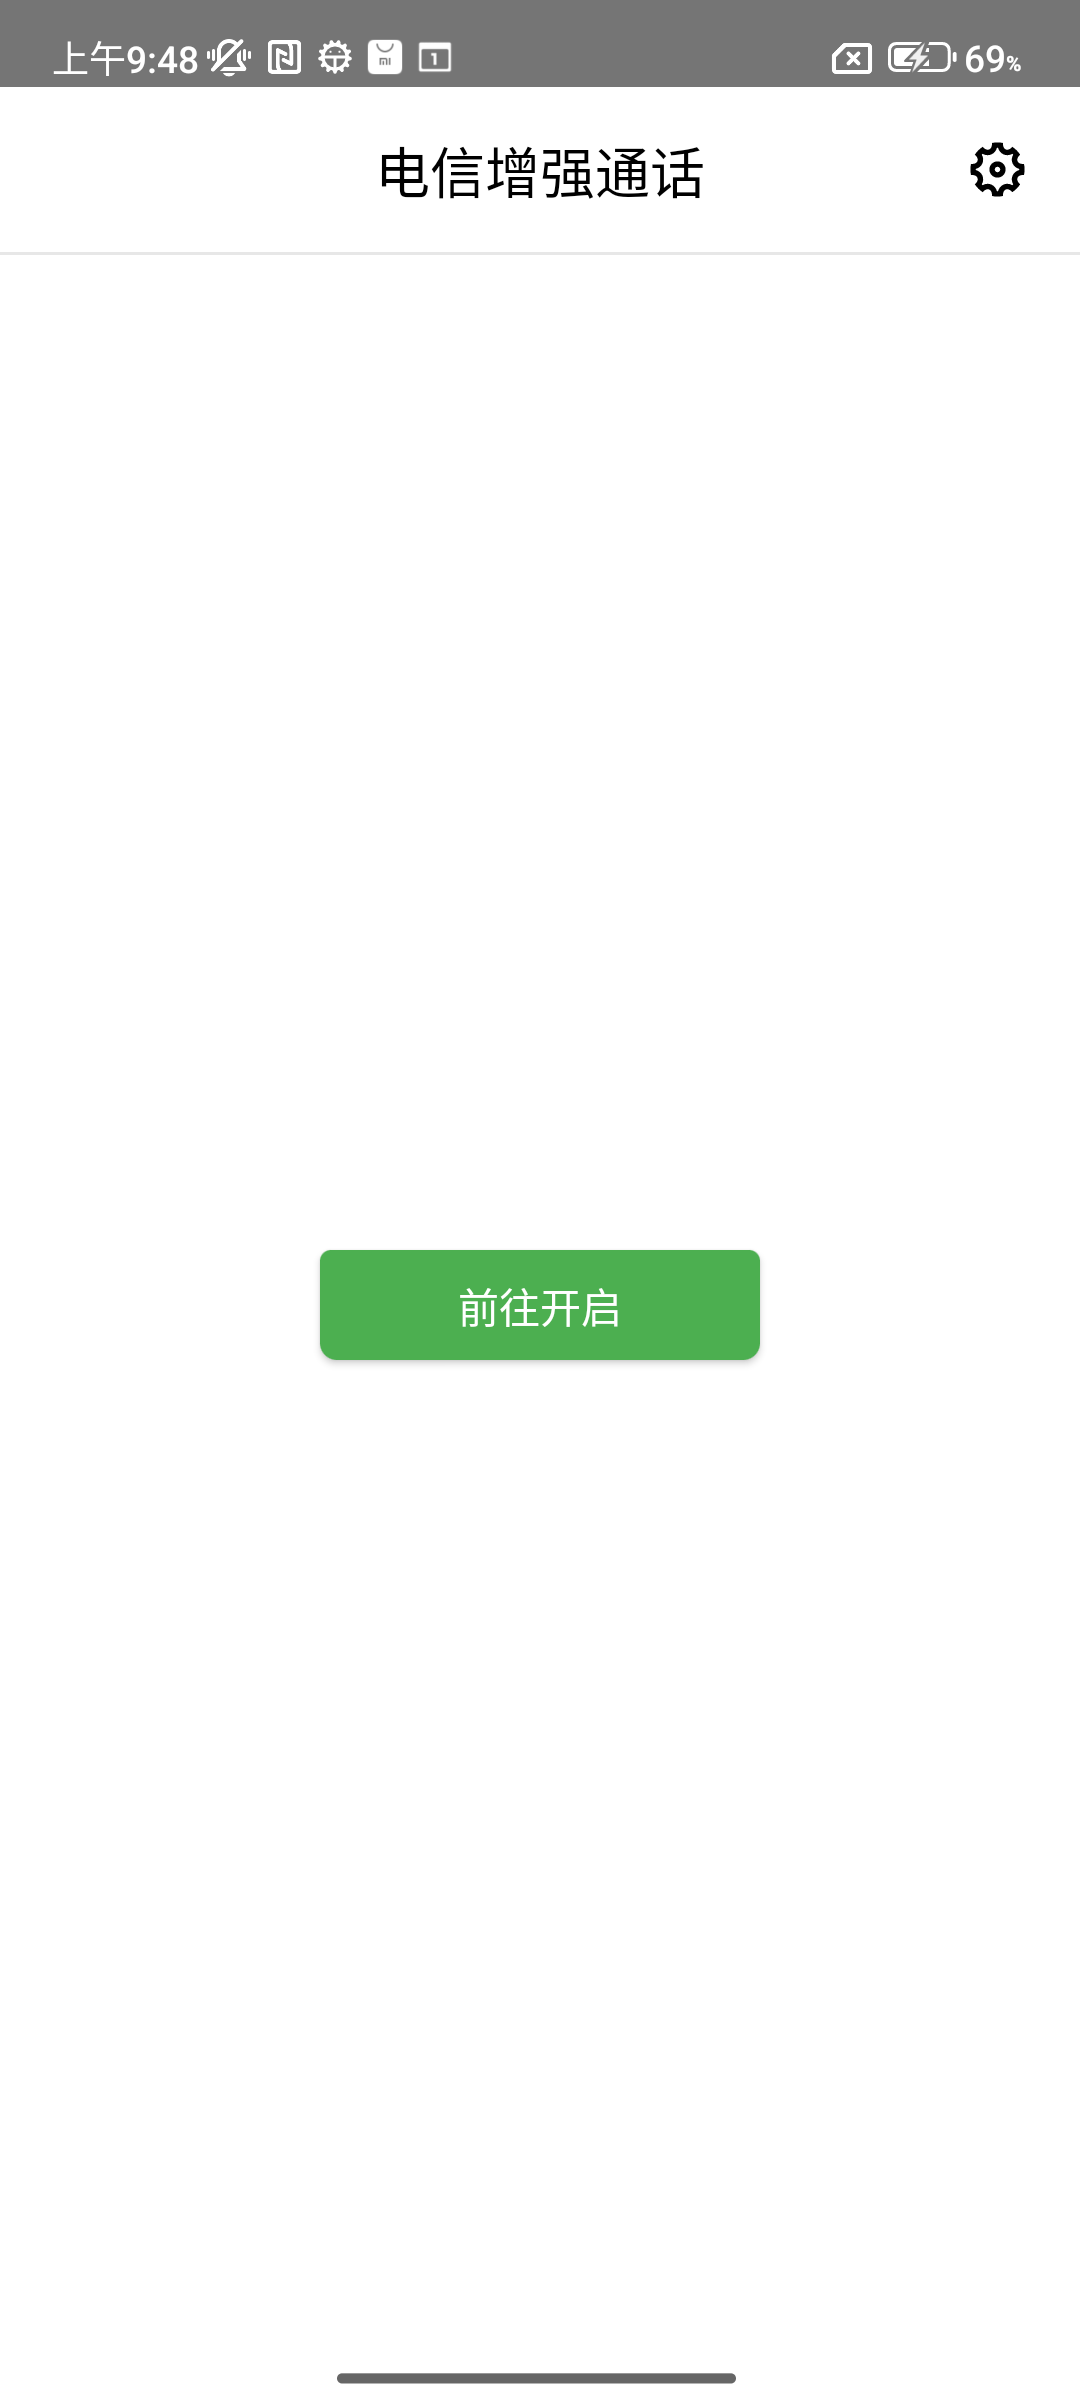
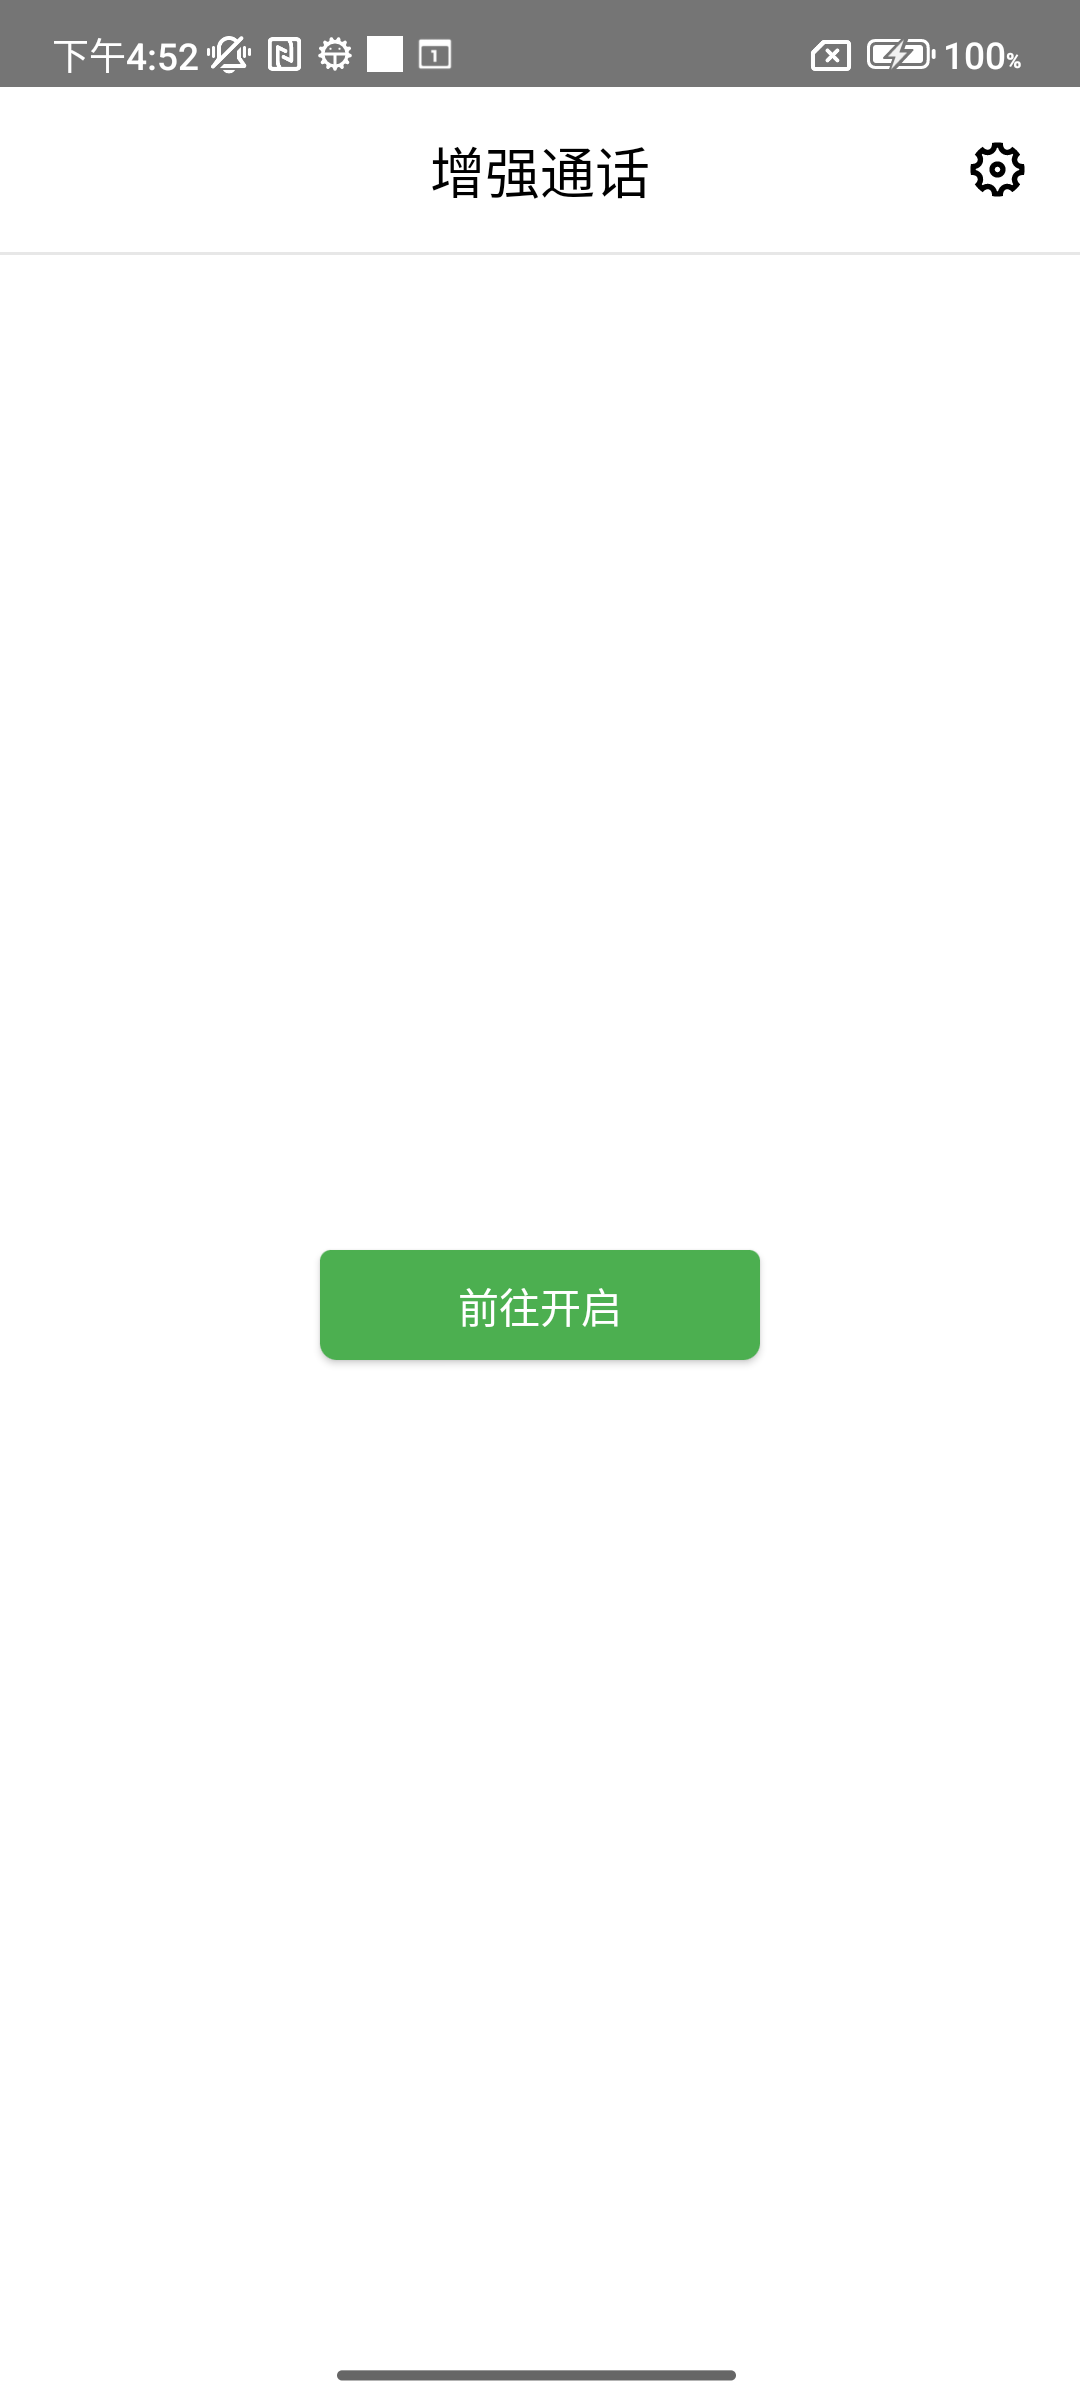
name

diff --git a/core/src/main/java/com/ct/ertclib/dc/core/common/sdkpermission/SDKPermissionActivity.kt b/core/src/main/java/com/ct/ertclib/dc/core/common/sdkpermission/SDKPermissionActivity.kt
@@ -36,7 +36,7 @@ import com.hjq.permissions.OnPermissionCallback
 import com.hjq.permissions.XXPermissions
 
 /**
- * 问题：被叫首次使用新通话，手机顶部悬浮窗显示电话，同时弹出权限授权弹窗。用户点击接听后，授权弹窗会被覆盖。
+ * 问题：被叫首次使用增强通话，手机顶部悬浮窗显示电话，同时弹出权限授权弹窗。用户点击接听后，授权弹窗会被覆盖。
  * 解决方案：用户没有点击同意或拒绝按钮，Activity退至后台时，那就再调用一次startActivity
  *
  */
@@ -162,7 +162,7 @@ class SDKPermissionActivity : BaseAppCompatActivity() {
                                 intent.addFlags(Intent.FLAG_ACTIVITY_NEW_TASK)
                                 startActivity(intent)
                             } else {
-                                ToastUtils.showShortToast(this@SDKPermissionActivity, "缺少权限新通话功能将无法使用")
+                                ToastUtils.showShortToast(this@SDKPermissionActivity, "缺少权限增强通话功能将无法使用")
                                 denied()
                             }
                         }
@@ -193,7 +193,7 @@ class SDKPermissionActivity : BaseAppCompatActivity() {
     override fun onActivityResult(requestCode: Int, resultCode: Int, data: Intent?) {
         super.onActivityResult(requestCode, resultCode, data)
         if (!Settings.canDrawOverlays(this)) {
-            ToastUtils.showShortToast(this@SDKPermissionActivity, "缺少权限新通话功能将无法使用")
+            ToastUtils.showShortToast(this@SDKPermissionActivity, "缺少权限增强通话功能将无法使用")
             denied()
         } else {
             agree()

diff --git a/core/src/main/java/com/ct/ertclib/dc/core/common/NewCallAppSdkInterface.kt b/core/src/main/java/com/ct/ertclib/dc/core/common/NewCallAppSdkInterface.kt
@@ -98,7 +98,7 @@ object NewCallAppSdkInterface {
     private val miniAppDbRepo: MiniAppDbRepo by lazy { MiniAppDbRepo() }
 
     /**
-     * 判断当前应用是否有5G新通话相关的全部权限
+     * 判断当前应用是否有5G增强通话相关的全部权限
      */
     @JvmStatic
     fun hasAllPermissions(context: Context): Boolean {
@@ -108,7 +108,7 @@ object NewCallAppSdkInterface {
     }
 
     /**
-     * 开启或关闭5G新通话功能
+     * 开启或关闭5G增强通话功能
      */
     @JvmStatic
     fun setNewCallEnabled(isEnabled: Boolean) {
@@ -117,7 +117,7 @@ object NewCallAppSdkInterface {
     }
 
     /**
-     * 启动5G新通话权限设置页面
+     * 启动5G增强通话权限设置页面
      */
     @JvmStatic
     fun checkAndRequestPermission(type: Int,onAgree: () -> Unit, onDenied: () -> Unit){

diff --git a/testing/src/main/java/com/ct/ertclib/dc/feature/testing/LocalTestingMainActivity.kt b/testing/src/main/java/com/ct/ertclib/dc/feature/testing/LocalTestingMainActivity.kt
@@ -89,7 +89,7 @@ class LocalTestingMainActivity : BaseAppCompatActivity() {
         binding.btnFakePrecall.setOnClickListener {
             val enableNewCall = spUtils.getBoolean("enableNewCall", false)
             if (!enableNewCall) {
-                ToastUtils.showShortToast(this@LocalTestingMainActivity, "请先开启新通话功能")
+                ToastUtils.showShortToast(this@LocalTestingMainActivity, "请先开启增强通话功能")
                 return@setOnClickListener
             }
             binding.btnFakePrecall.isEnabled = false

diff --git a/core/src/main/java/com/ct/ertclib/dc/core/service/InCallServiceImpl.kt b/core/src/main/java/com/ct/ertclib/dc/core/service/InCallServiceImpl.kt
@@ -69,7 +69,7 @@ class InCallServiceImpl : InCallService(), KoinComponent {
 
     @RequiresApi(Build.VERSION_CODES.Q)
     override fun onCallAdded(call: Call?) {
-        // 开机未解锁过，新通话功能不能使用。sp会有异常，直接catch住就可以了。
+        // 开机未解锁过，增强通话功能不能使用。sp会有异常，直接catch住就可以了。
         try {
             if (call == null){
                 sLogger.info("onCallAdded call is null")
